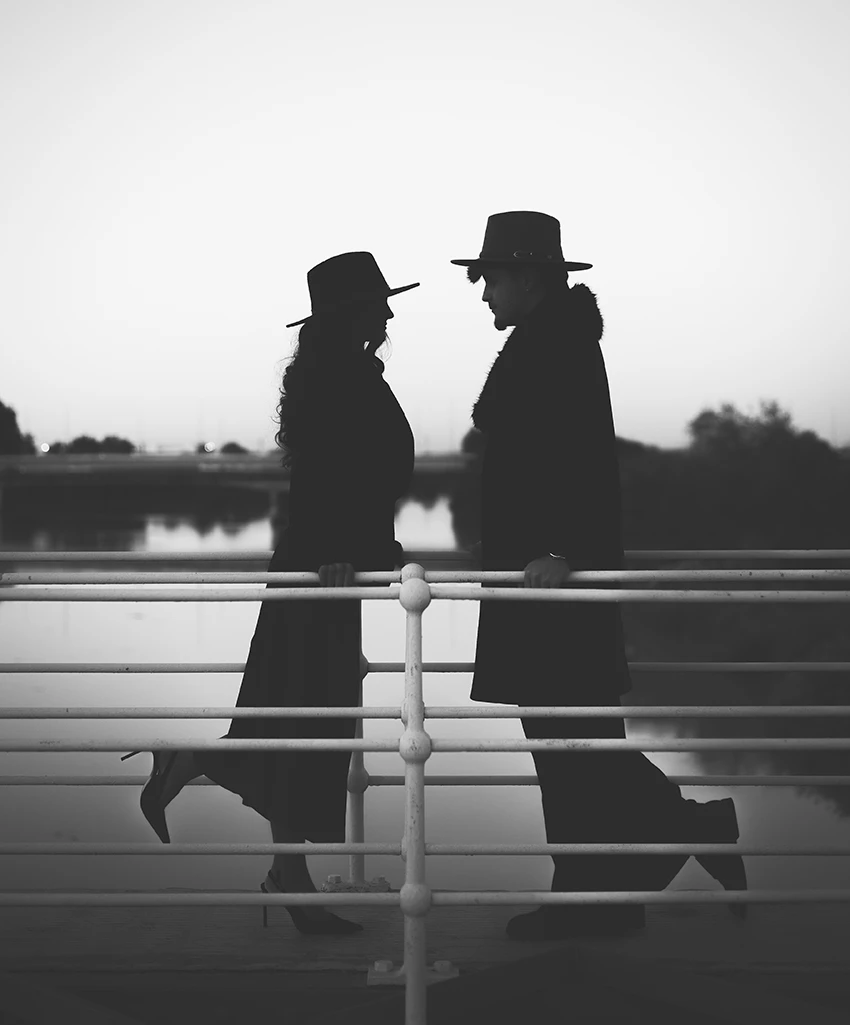
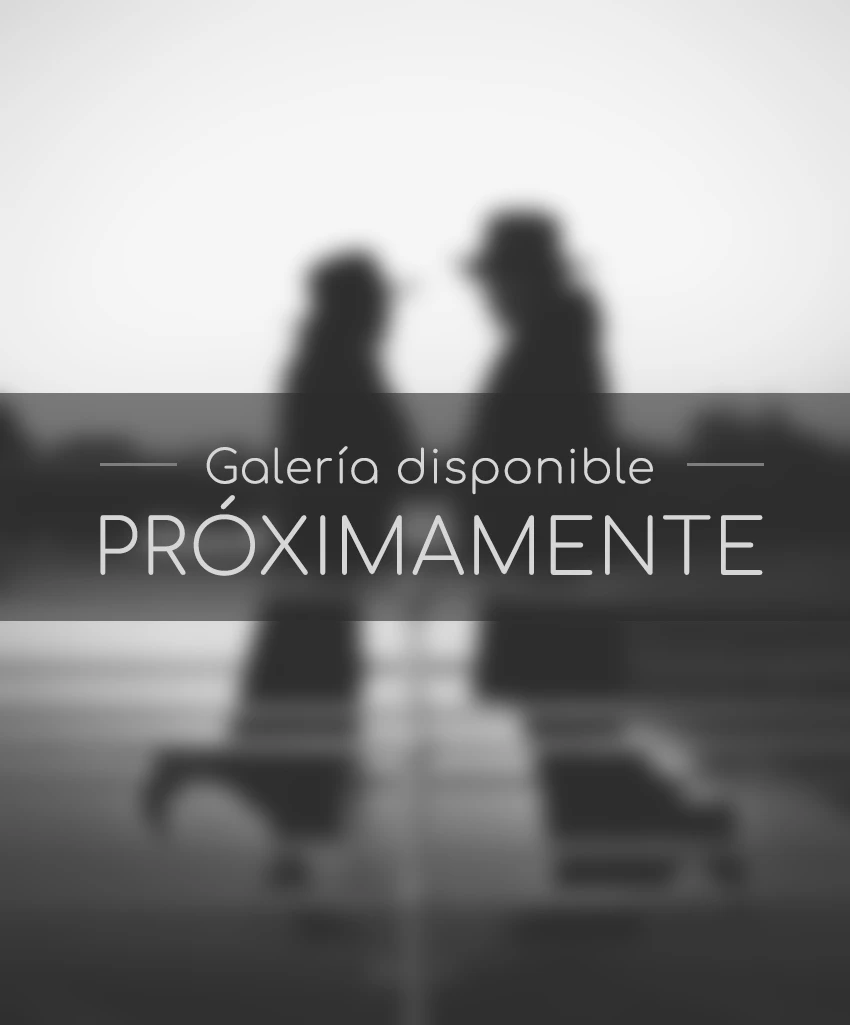
nuevas secciones en index

Changed region(s): [[0.0, 0.1873, 1.0, 0.9054]]

diff --git a/index.html b/index.html
@@ -264,6 +264,45 @@
         </div>
       </a>
 
+<a href="/cine" class="category-card cine-card group relative aspect-[4/5] rounded-3xl overflow-hidden border border-white/10">
+  <div class="card-img-container">
+    <img src="img/cine.webp" alt="Fotografía formato cine" class="transition-transform duration-700 group-hover:scale-110" />
+  </div>
+  
+  <div class="absolute inset-0 pointer-events-none">
+    <div class="absolute top-0 left-0 w-full h-0 bg-black transition-all duration-500 ease-in-out group-hover:h-[15%] z-10"></div>
+    <div class="absolute bottom-0 left-0 w-full h-0 bg-black transition-all duration-500 ease-in-out group-hover:h-[15%] z-10"></div>
+  </div>
+
+  <div class="absolute inset-0 bg-gradient-to-t from-black/90 via-transparent to-transparent z-20"></div>
+  
+  <div class="absolute bottom-8 left-8 z-30">
+    <p class="text-2xl font-bold">Formato Cine</p>
+    <p class="text-primary text-sm opacity-0 group-hover:opacity-100 transition-opacity">PRÓXIMAMENTE</p>
+  </div>
+</a>
+
+  <a href="/bn" class="category-card group relative aspect-[4/5] rounded-3xl overflow-hidden border border-white/10">
+    <div class="card-img-container">
+      <img src="img/bn.webp" alt="Fotografía en blanco y negro" />
+    </div>
+    <div class="absolute inset-0 bg-gradient-to-t from-black/90 via-transparent to-transparent"></div>
+    <div class="absolute bottom-8 left-8">
+      <p class="text-2xl font-bold">Blanco y Negro</p>
+      <p class="text-primary text-sm opacity-0 group-hover:opacity-100 transition-opacity">PRÓXIMAMENTE</p>
+    </div>
+  </a>
+
+  <a href="/lifestyle" class="category-card group relative aspect-[4/5] rounded-3xl overflow-hidden border border-white/10">
+    <div class="card-img-container">
+      <img src="img/lifestyle.webp" alt="Fotografía de marca personal" loading="lazy" />
+    </div>
+    <div class="absolute inset-0 bg-gradient-to-t from-black/90 via-transparent to-transparent"></div>
+    <div class="absolute bottom-8 left-8">
+      <p class="text-2xl font-bold">Lifestyle</p>
+      <p class="text-primary text-sm opacity-0 group-hover:opacity-100 transition-opacity">PRÓXIMAMENTE</p>
+    </div>
+  </a>
       
     </section>
 
